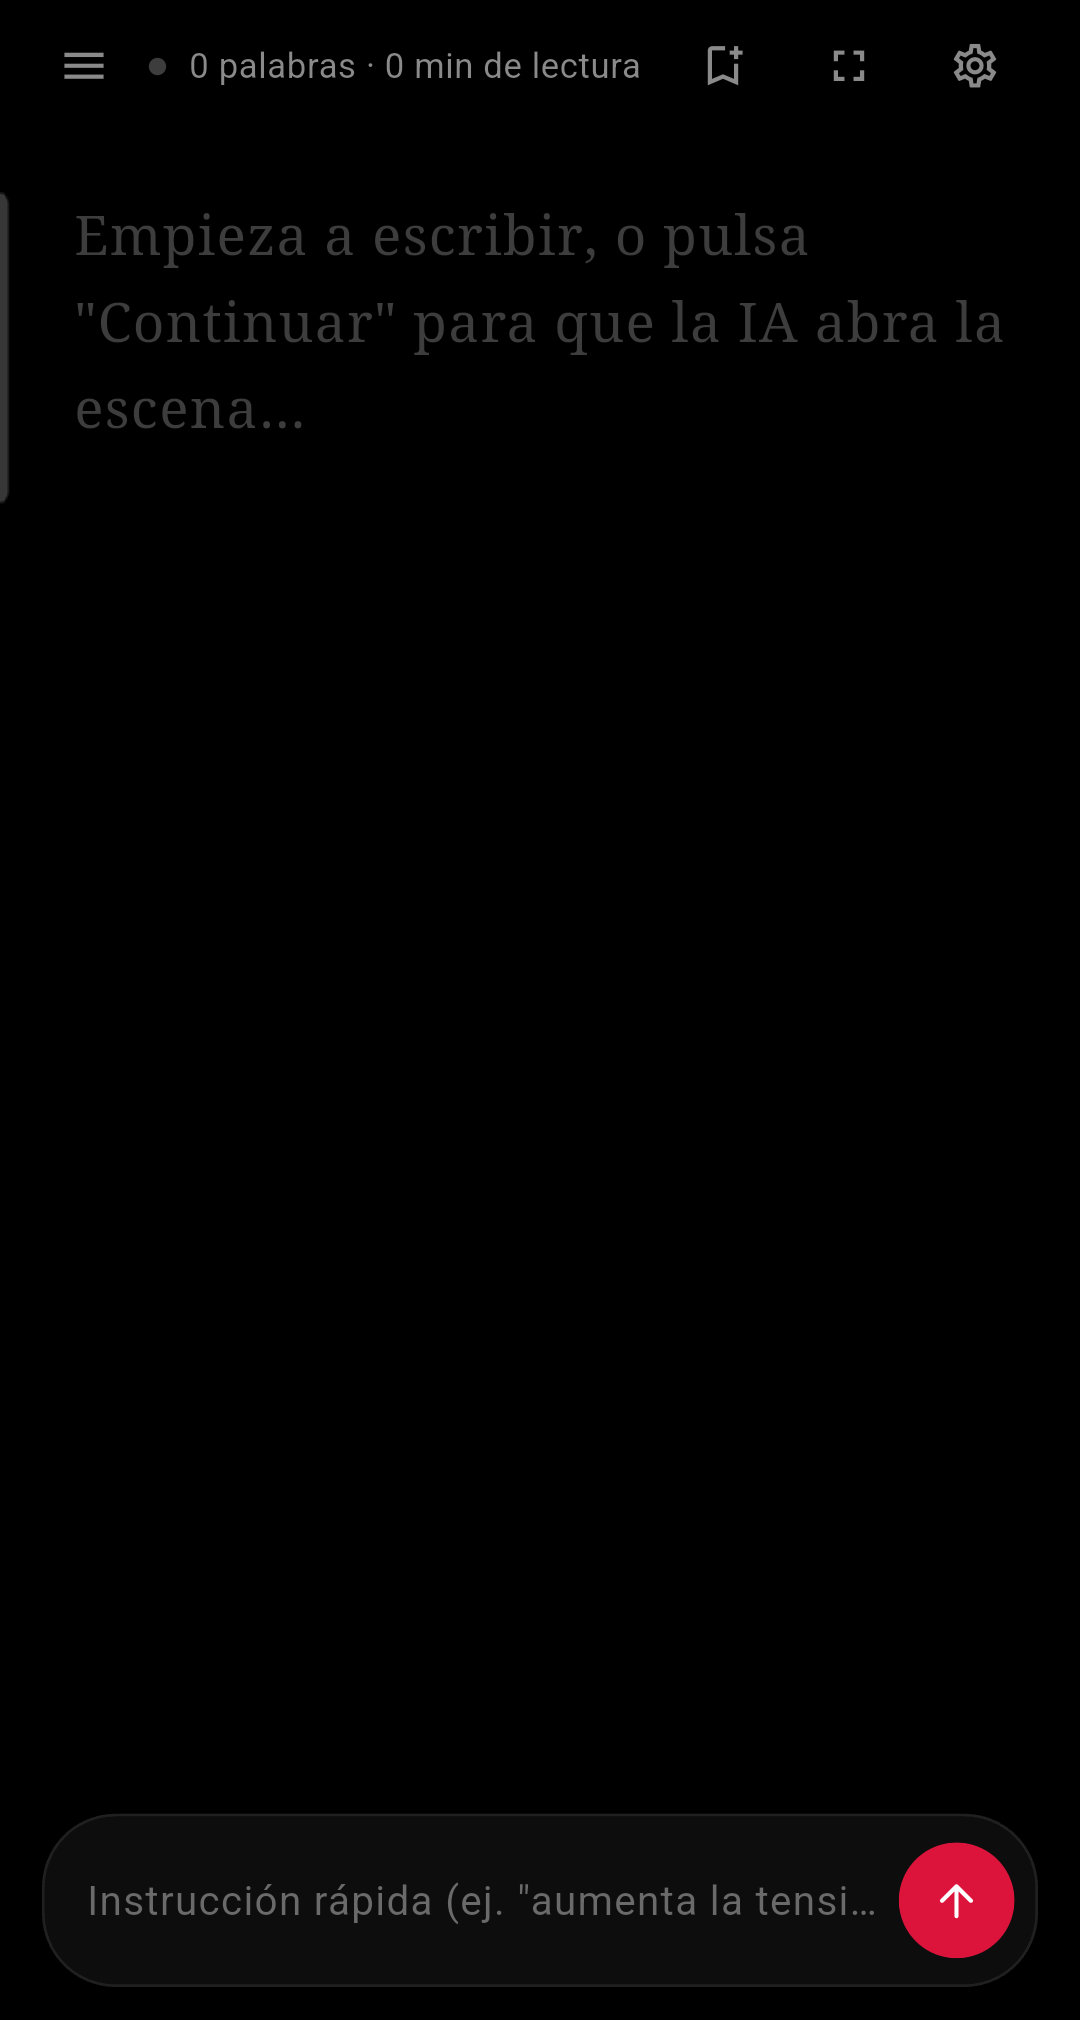
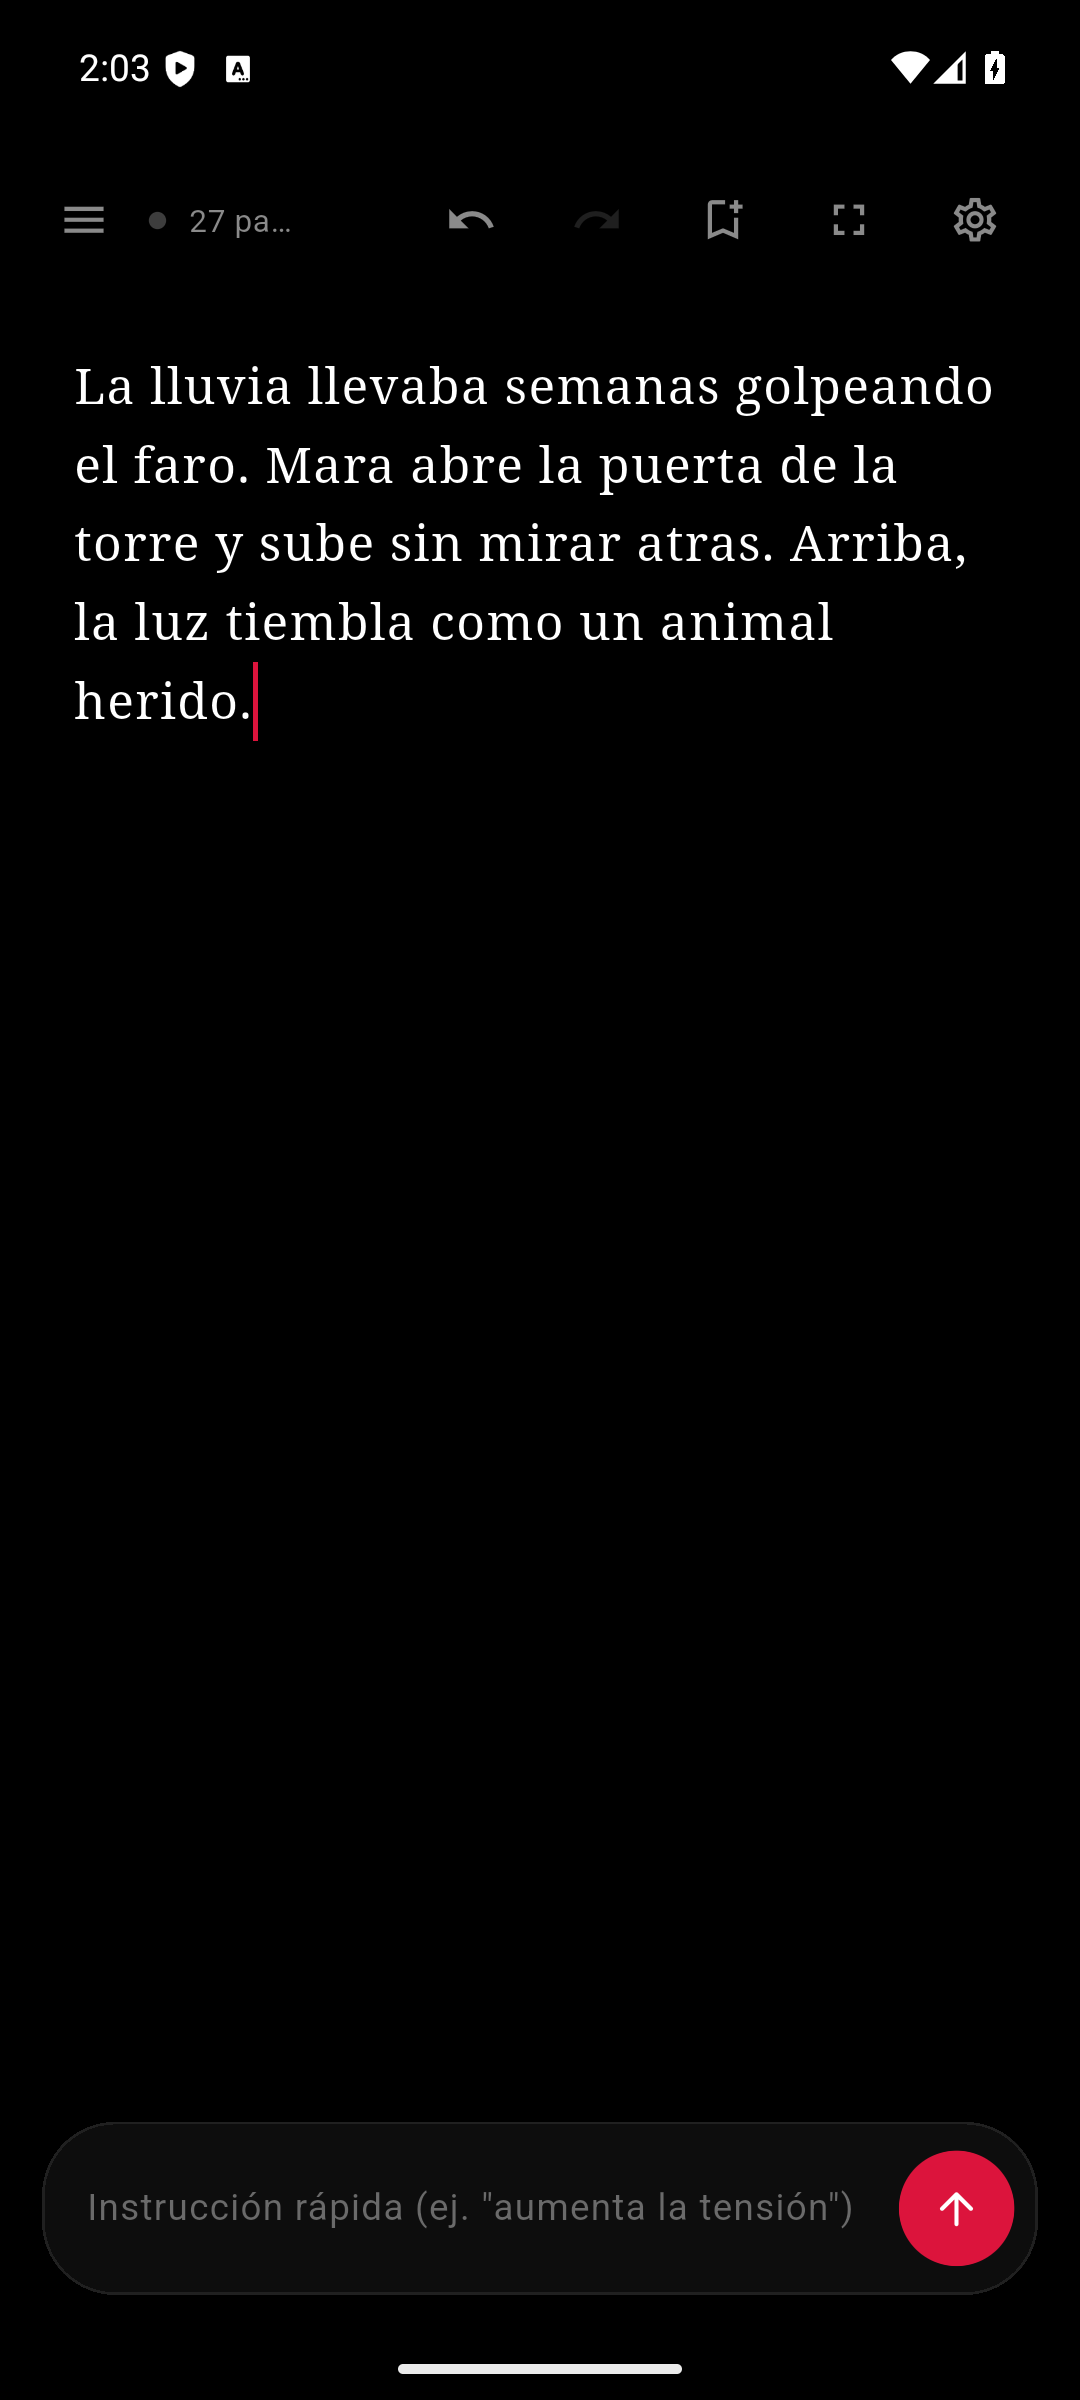
Capturas nuevas del editor, el menú y los ajustes de API

diff --git a/README.md b/README.md
@@ -2,7 +2,7 @@
 
 App móvil (Flutter, Android) para escribir novelas con ayuda de una IA. Hice la app para escribir en el celular sin depender de un servicio con suscripción: tú pones tu propia API key y el modelo que quieras.
 
-![Editor](docs/screenshots/01-home.png) ![Menú](docs/screenshots/02-menu.png)
+![Editor](docs/screenshots/01-home.png) ![Menú](docs/screenshots/02-menu.png) ![Ajustes de API](docs/screenshots/03-api.png)
 
 ## Qué hace
 
